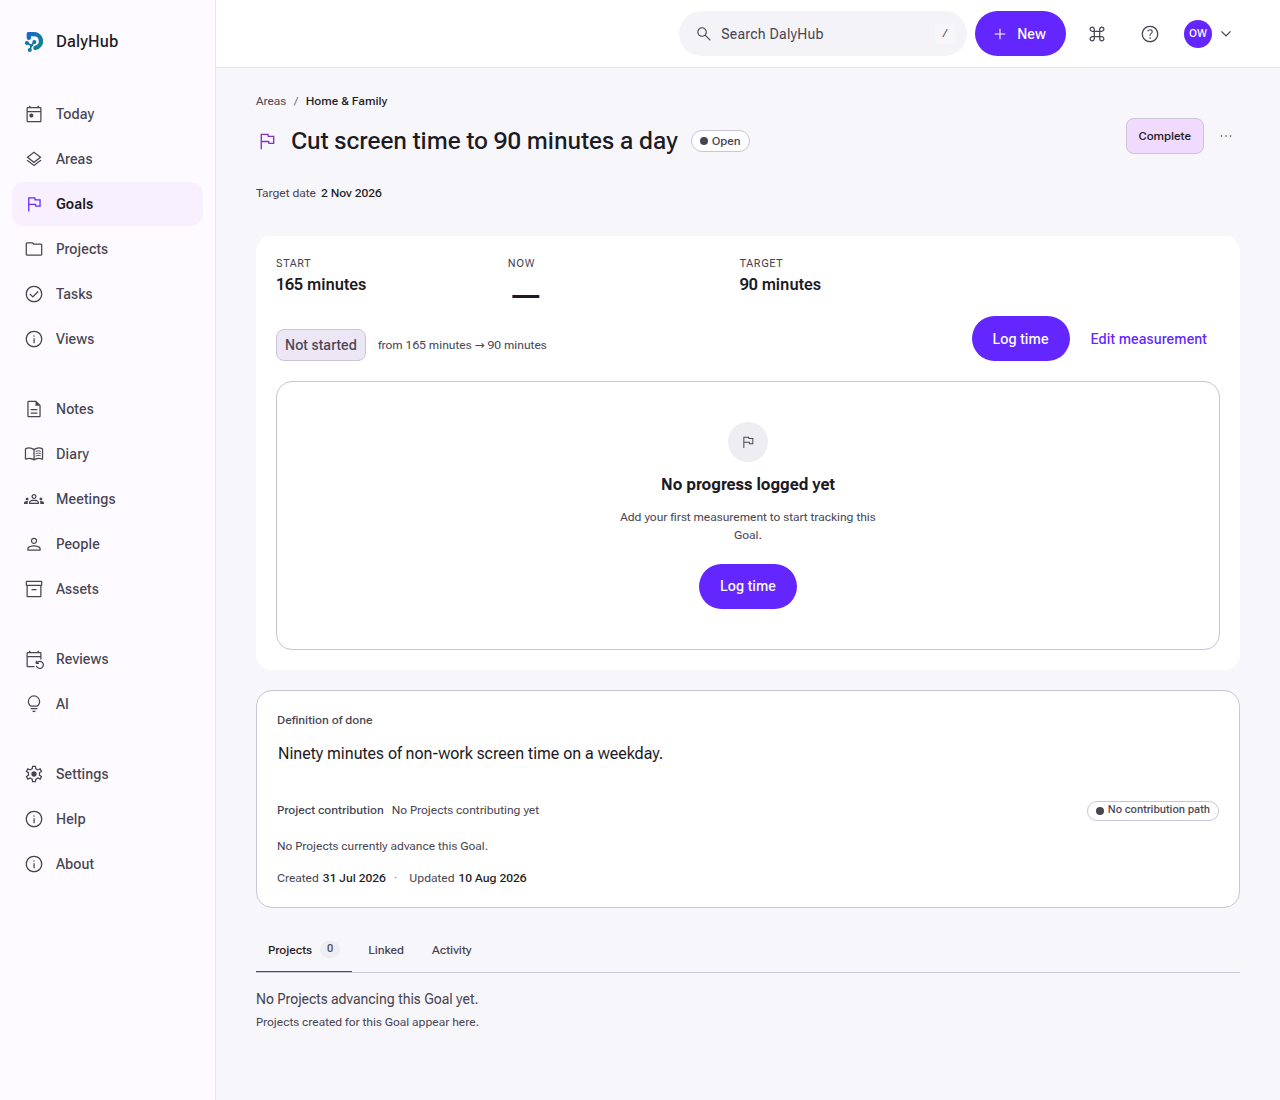
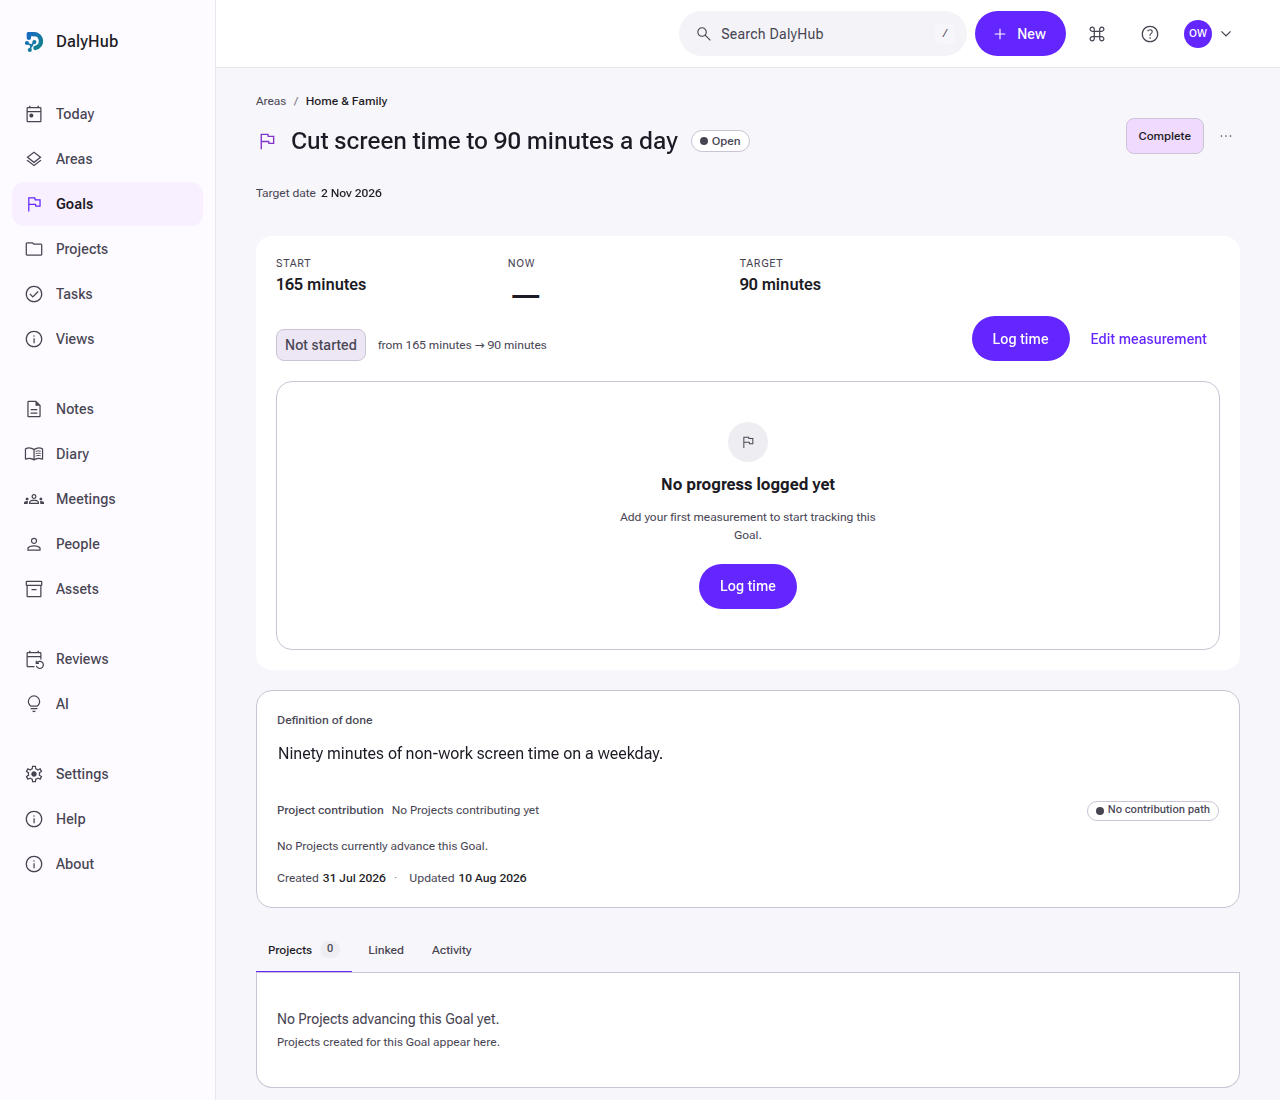
UIX-03: fix two defects found in review
**P1 — every record's tab panel lost its surface.** `record-layout.css` had a
grouped rule giving `.record-tabs__panel, .record-layout__content` their
padding, card background, hairline and radius — the rule that stops a
record's content dissolving into the page canvas, written for a reported
production defect. Adding `.record-layout__feature` inserted a new selector
between the two, so the panel silently kept only the feature's box rules and
lost all four. That shipped on Areas, Goals, Projects, Meetings, People,
Assets and Reviews, not just Goals. The feature now has its own rule and the
pair is grouped again.

**P2 — the sparkline could end on the wrong reading.** `measured_on` is a
date and two readings may share one. The window chooses rows by
`measured_on DESC, created_at DESC`, but the outer ascending ORDER BY dropped
the tie-breaker, so SQLite was free to return a same-day pair either way
round — putting an arbitrary one at the series' end, where it sets the
sparkline's end marker and the direction its tone comes from, while the
card's metric uses the summary's genuinely-newest reading. The outer order
now carries `created_at` and `id`, and the window gained the same `id`
backstop.

Both were invisible to the suite, which is the more useful finding, so both
now have tests that fail without the fix:

  - `record-anatomy.spec.ts` asserts the active tab panel's computed
    background, border, padding and radius on all nine canonical records —
[…]

diff --git a/test/kernel/goal-measurements.test.ts b/test/kernel/goal-measurements.test.ts
@@ -375,6 +375,72 @@ describe("the batched summary read", () => {
     expect(series.get(b.id)).toEqual([{ value: 5, measuredOn: "2026-08-01" }]);
   });
 
+  it("keeps same-day readings in creation order, so the endpoint is the newest", async () => {
+    /*
+     * `measured_on` is a DATE, and the repository permits two readings on one.
+     * The window ranks by `measured_on DESC, created_at DESC` to CHOOSE rows,
+     * so the ascending result has to carry the same tie-break or SQLite is free
+     * to return the pair either way round — which puts an arbitrary one of them
+     * at the series' end, and the sparkline's end marker and direction would
+     * then disagree with the card's metric (which comes from the summary's
+     * genuinely-newest reading).
+     */
+    const s = spine();
+    const area = await s.createArea({ title: "Health" });
+    const goal = await s.createGoal({ title: "Reach 70 kg", areaId: area.id });
+    const repo = measurements();
+
+    await repo.createMeasurement(goal.id, {
+      value: 80,
+      measuredOn: "2026-08-01",
+    });
+    // Three on ONE day, written in a known order.
+    await repo.createMeasurement(goal.id, {
+      value: 79.5,
+      measuredOn: "2026-08-08",
+    });
+    await repo.createMeasurement(goal.id, {
+      value: 79.2,
+      measuredOn: "2026-08-08",
+    });
+    await repo.createMeasurement(goal.id, {
+      value: 78.9,
+      measuredOn: "2026-08-08",
+    });
+
+    const series = (
+      await repo.listMeasurementSeries([goal.id], {
+        perGoalLimit: 12,
+      })
+    ).get(goal.id);
+
+    expect(series?.map((point) => point.value)).toEqual([80, 79.5, 79.2, 78.9]);
+    // The one that matters: the LAST point is the last one written.
+    expect(series?.[series.length - 1]?.value).toBe(78.9);
+  });
+
+  it("caps to the newest readings even when the cap falls inside one day", async () => {
+    const s = spine();
+    const area = await s.createArea({ title: "Health" });
+    const goal = await s.createGoal({ title: "Weigh in", areaId: area.id });
+    const repo = measurements();
+    for (const value of [90, 89, 88, 87]) {
+      await repo.createMeasurement(goal.id, {
+        value,
+        measuredOn: "2026-08-08",
+      });
+    }
+
+    const series = (
+      await repo.listMeasurementSeries([goal.id], {
+        perGoalLimit: 2,
+      })
+    ).get(goal.id);
+
+    // The two NEWEST of four same-day readings, still oldest-first.
+    expect(series?.map((point) => point.value)).toEqual([88, 87]);
+  });
+
   it("omits a Goal with no readings rather than inventing an empty series", async () => {
     const goal = await seedGoal();
     const series = await measurements().listMeasurementSeries([goal.id], {

diff --git a/e2e/record-anatomy.spec.ts b/e2e/record-anatomy.spec.ts
@@ -112,6 +112,57 @@ test.describe("the fold anchor", () => {
   }
 });
 
+test.describe("the record's contained surfaces", () => {
+  test.use({ viewport: LAPTOP_SMALL });
+
+  /*
+   * The active tab panel is the record's working SURFACE — padding, a card
+   * background, a hairline and a radius — so the content does not dissolve into
+   * the page canvas. That is a reported production defect the shared rule was
+   * written to fix, and nothing asserted it: UIX-03 inserted a new selector
+   * between `.record-tabs__panel,` and `.record-layout__content` in
+   * `record-layout.css`, silently splitting the grouped rule and stripping the
+   * panel's surface on EVERY canonical record, and the whole suite stayed green.
+   */
+  for (const record of FOLD_RECORDS) {
+    test(`${record.name}: the active tab panel keeps its contained surface`, async ({
+      page,
+    }) => {
+      await gotoFixture(page, record.path);
+      const panel = page.locator(".record-tabs__panel:not([hidden])").first();
+      // Not every record in this list is tabbed; the ones that are must be clad.
+      if ((await panel.count()) === 0) return;
+      /*
+       * …unless the panel has explicitly opted out. `[data-surface="plain"]` is
+       * a documented escape for a panel whose CONTENT brings its own surface —
+       * the Note record's writing column — where cladding the panel too would
+       * be a frame inside a frame. Honouring the opt-out is what makes this a
+       * test of the contract rather than of one rule.
+       */
+      if ((await panel.getAttribute("data-surface")) === "plain") return;
+
+      const style = await panel.evaluate((el) => {
+        const computed = getComputedStyle(el);
+        return {
+          background: computed.backgroundColor,
+          borderInline: computed.borderInlineStartWidth,
+          padding: computed.paddingInlineStart,
+          radius: computed.borderEndStartRadius,
+        };
+      });
+
+      // A real background, not the canvas showing through.
+      expect(style.background).not.toBe("rgba(0, 0, 0, 0)");
+      expect(style.background).not.toBe("transparent");
+      // A real hairline and real inset.
+      expect(parseFloat(style.borderInline)).toBeGreaterThan(0);
+      expect(parseFloat(style.padding)).toBeGreaterThan(8);
+      // The bottom corners are rounded; the top ones join the tab strip.
+      expect(parseFloat(style.radius)).toBeGreaterThan(0);
+    });
+  }
+});
+
 test.describe("the record header", () => {
   test.use({ viewport: LAPTOP_SMALL });
 

diff --git a/app/platform/storage/d1/d1-goal-measurement-repository.ts b/app/platform/storage/d1/d1-goal-measurement-repository.ts
@@ -601,12 +601,28 @@ export class D1GoalMeasurementRepository implements GoalMeasurementRepository {
           const marks = placeholders(idChunk.length);
           const result = await this.#db
             .prepare(
+              /*
+               * The outer ORDER BY carries the SAME tie-breakers the window
+               * ranked by, reversed.
+               *
+               * Two readings can share a day — the repository permits it, and
+               * `measured_on` is a date, not an instant. Ordering the result by
+               * `measured_on` alone leaves SQLite free to return those two in
+               * either order, which puts an arbitrary one of them at the
+               * series' end: the sparkline's end marker, and the direction its
+               * tone is derived from, would then disagree with the card's
+               * metric, which comes from the summary's genuinely-newest
+               * reading. `created_at` is the same tie-break `measured_on DESC,
+               * created_at DESC` uses to CHOOSE the rows, and `id` makes the
+               * order total even for two rows written in the same millisecond.
+               */
               `SELECT entity_id, value, measured_on
                  FROM (
                         SELECT m.entity_id, m.value, m.measured_on,
+                               m.created_at AS created_at, m.id AS id,
                                ROW_NUMBER() OVER (
                                  PARTITION BY m.entity_id
-                                 ORDER BY m.measured_on DESC, m.created_at DESC
+                                 ORDER BY m.measured_on DESC, m.created_at DESC, m.id DESC
                                ) AS rn
                         FROM goal_measurements m
                         JOIN entities e
@@ -615,7 +631,7 @@ export class D1GoalMeasurementRepository implements GoalMeasurementRepository {
                         WHERE m.workspace_id = ? AND m.entity_id IN (${marks})
                       )
                  WHERE rn <= ?
-                 ORDER BY entity_id ASC, measured_on ASC`,
+                 ORDER BY entity_id ASC, measured_on ASC, created_at ASC, id ASC`,
             )
             .bind(this.#workspaceId, ...idChunk, perGoal)
             .all<SeriesRow>();

diff --git a/app/styles/record-layout.css b/app/styles/record-layout.css
@@ -623,6 +623,14 @@
  * hairline, no shadow, and the Collection preset's inset so a row list inside it
  * lands on the same inline rhythm as a routed collection. */
 .record-tabs__panel,
+.record-layout__content {
+  min-width: 0;
+  padding: var(--app-space-5);
+  background: var(--md-app-color-surface-card);
+  border: var(--app-border-width-thin) solid var(--md-sys-color-outline-variant);
+  border-radius: var(--md-sys-shape-corner-large);
+}
+
 /*
  * UIX-03 — the record WORKSPACE region.
  *
@@ -630,19 +638,15 @@
  * and whatever fills it brings its own composition. Giving it a card here would
  * recreate the very nesting the slot exists to remove — a Goal's chart would be
  * back inside a container inside the record.
+ *
+ * It has its OWN rule rather than joining the two selectors above, which is the
+ * whole point: those two ARE the contained working surface, and this one must
+ * not be.
  */
 .record-layout__feature {
   min-width: 0;
   display: flex;
   flex-direction: column;
-}
-
-.record-layout__content {
-  min-width: 0;
-  padding: var(--app-space-5);
-  background: var(--md-app-color-surface-card);
-  border: var(--app-border-width-thin) solid var(--md-sys-color-outline-variant);
-  border-radius: var(--md-sys-shape-corner-large);
 }
 
 /*
